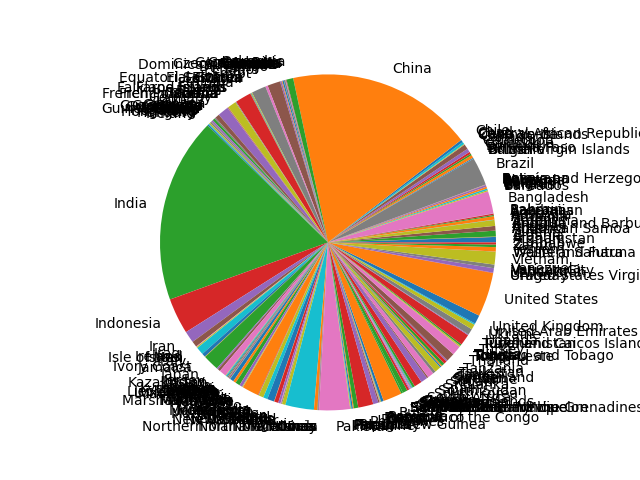
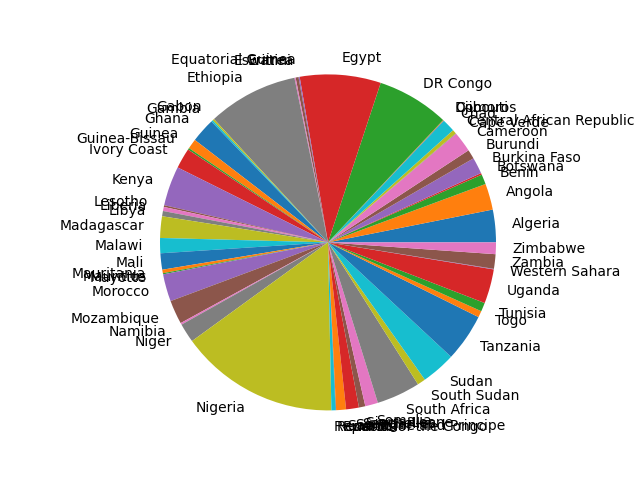
Profundización

diff --git a/charts/pie.py b/charts/pie.py
@@ -1,7 +1,14 @@
 import matplotlib.pyplot as plt
 import csv
+import pandas as pd
 
-
+'''
+    with open(path,'r') as file:
+        csv_reader = csv.DictReader(file)
+        labels,values = get_diccionari(csv_reader)
+        print(list(labels), list(values))
+        generate_pie_chart(labels,values)
+'''
 path = '/home/bee/Documents/dev_bee/Git_bee/charts/world_population.csv'
 def get_diccionari(data):
     result = {item['Country']:item['World Population Percentage'] for item in data }
@@ -18,12 +25,13 @@ def generate_pie_chart(labels,values):
     plt.close()
 
 def run():
+    df = pd.read_csv(path)
+    df = df[df['Continent'] == 'Africa']
+    countries = df['Country'].values
+    percentage = df['World Population Percentage'].values
+    generate_pie_chart(countries,percentage)
 
-    with open(path,'r') as file:
-        csv_reader = csv.DictReader(file)
-        labels,values = get_diccionari(csv_reader)
-        print(list(labels), list(values))
-        generate_pie_chart(labels,values)
+
 
 
 if __name__ == '__main__':
